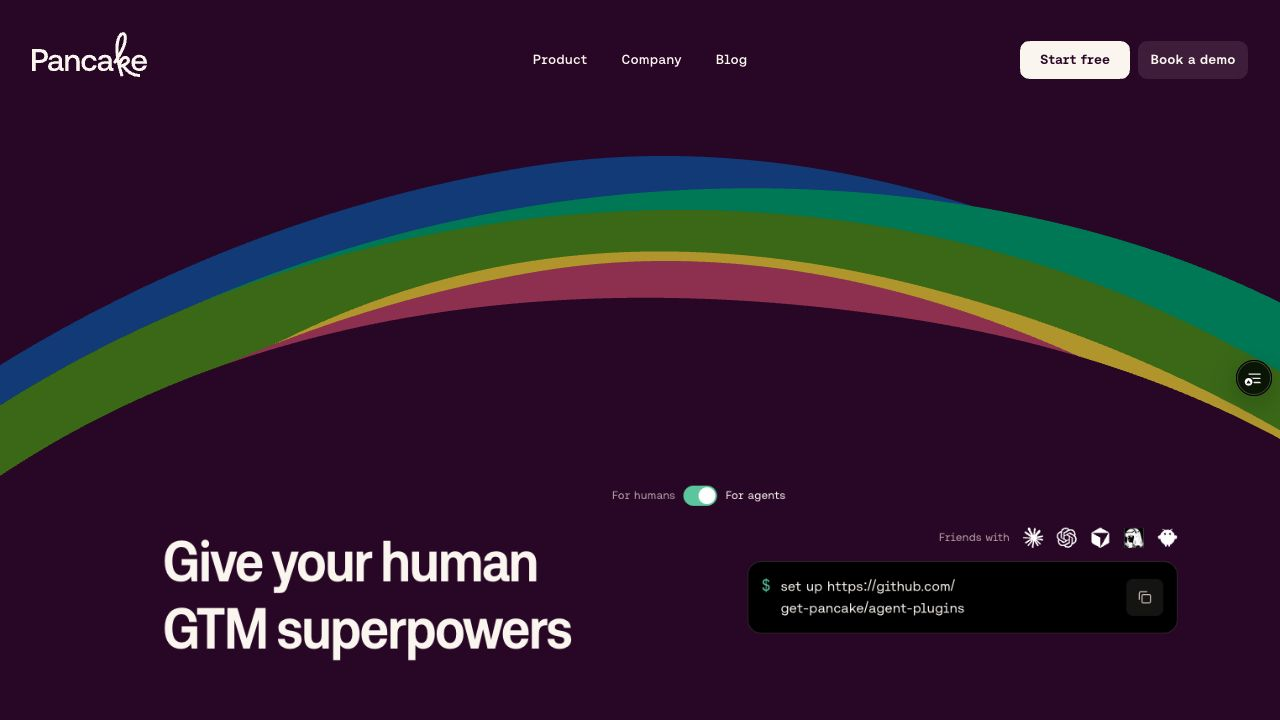
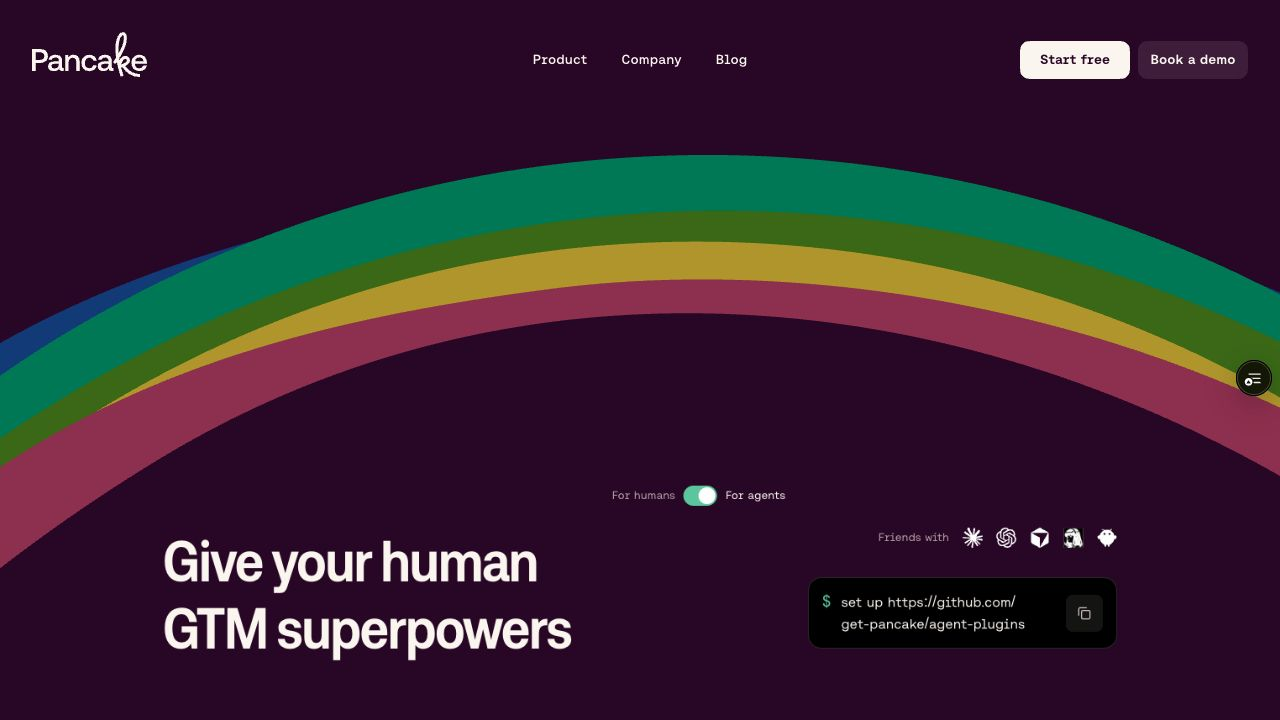
Match agent setup to original human hero column

Changed region(s): [[0.0, 0.2139, 1.0, 0.7944], [0.5625, 0.7333, 0.9375, 0.9167], [0.9375, 0.3667, 1.0, 0.4278]]

diff --git a/app/_styles/landing-v3/audience.css b/app/_styles/landing-v3/audience.css
@@ -34,13 +34,13 @@ html:has(.lp-audience-page)::view-transition-new(lp-audience-switch) { animation
 .lp-hero-title__copy { grid-area: 1 / 1; font: inherit; letter-spacing: inherit; }
 .lp-hero-title__copy[aria-hidden="true"] { visibility: hidden; }
 
-/* The agent's next step occupies the existing right-hand hero column.
-   The original human content keeps its own untouched layout. */
+/* The original human column remains the layout reference in both modes.
+   The agent block overlays its exact bounds, including on phones. */
 .lp-hero-col--agent { display: none; }
 .lp-hero-inner:not([data-title-ready="true"]) .lp-hero-col--agent { visibility: hidden; }
-[data-audience="agents"] .lp-hero-col--human { display: none; }
-[data-audience="agents"] .lp-hero-col--agent { display: block; top: var(--lp-hero-title-top); bottom: auto; }
-.lp-agent-start { width: calc(var(--lp-space-8) * 16); max-width: 100%; color: var(--lp-text); }
+[data-audience="agents"] .lp-hero-col--human { visibility: hidden; }
+[data-audience="agents"] .lp-hero-col--agent { display: block; position: absolute; top: var(--lp-hero-col-top); left: var(--lp-hero-col-left); right: auto; bottom: auto; width: var(--lp-hero-col-width); height: var(--lp-hero-col-height); transform: none; }
+.lp-agent-start { display: flex; flex-direction: column; justify-content: space-between; width: 100%; height: 100%; color: var(--lp-text); }
 .lp-agent-terminal { display: grid; grid-template-columns: auto minmax(0, 1fr) auto; gap: var(--lp-space-3); align-items: center; padding: var(--lp-space-4); border: var(--lp-line) solid color-mix(in srgb, var(--lp-page-bg) 16%, transparent); border-radius: var(--lp-r-m); background: var(--lp-terminal-bg); }
 .lp-agent-terminal__prompt { color: var(--lp-green-20); font: inherit; align-self: start; line-height: 1.6; }
 .lp-agent-terminal__code { display: block; font-family: var(--lp-font-fono); font-size: var(--lp-text-md); line-height: 1.6; color: var(--lp-page-bg); overflow-wrap: anywhere; text-wrap: balance; user-select: text; }
@@ -59,11 +59,6 @@ html:has(.lp-audience-page)::view-transition-new(lp-audience-switch) { animation
 .lp-agent-friends__hermes { object-fit: contain; filter: grayscale(1) invert(1); mix-blend-mode: screen; clip-path: inset(1%); }
 .lp-agent-start__error { padding-top: var(--lp-space-3); font-size: var(--lp-text-sm); line-height: 1.5; color: var(--lp-ink-60); }
 @keyframes lp-agent-copy-check { from { opacity: 0; transform: scale(.8); } to { opacity: 1; transform: scale(1); } }
-@media (max-width: 1024px) {
-  [data-audience="agents"] .lp-hero-inner { width: 100%; min-width: 0; }
-  .lp-hero-col--agent { width: 100%; min-width: 0; max-width: 100%; }
-  .lp-agent-start { width: 100%; max-width: calc(var(--lp-space-8) * 16); }
-}
 @media (max-width: 767px) {
   .lp-agent-terminal { gap: var(--lp-space-2); padding: var(--lp-space-3); }
   .lp-agent-friends, .lp-agent-friends ul { gap: var(--lp-space-3); }

diff --git a/components/sections/landing-v3/LpAudience.tsx b/components/sections/landing-v3/LpAudience.tsx
@@ -112,13 +112,18 @@ export function AudienceSelector() {
     const placement = selector?.parentElement;
     const inner = placement?.closest<HTMLElement>(".lp-hero-inner");
     const heading = inner?.querySelector<HTMLElement>(".lp-hero-title");
-    if (!selector || !placement || !inner || !heading) return;
+    const humanColumn = inner?.querySelector<HTMLElement>(".lp-hero-col--human");
+    if (!selector || !placement || !inner || !heading || !humanColumn) return;
     // Anchor to the original headline without changing its markup or flow.
     // Divide out the hero's existing short-window scale so both stay aligned.
     const position = () => {
       const box = inner.getBoundingClientRect();
       const title = heading.getBoundingClientRect();
+      const column = humanColumn.getBoundingClientRect();
       const scale = box.width / inner.offsetWidth || 1;
+      // offsetWidth rounds fractional mobile widths; retain that precision
+      // when mapping the original column's bounds into the overlay.
+      const columnScale = box.width / parseFloat(getComputedStyle(inner).width) || 1;
       const gutter = parseFloat(getComputedStyle(inner).getPropertyValue("--lp-space-8"));
       const gap = parseFloat(getComputedStyle(inner).getPropertyValue("--lp-space-4"));
       const half = selector.offsetWidth / 2;
@@ -126,13 +131,20 @@ export function AudienceSelector() {
       const center = Math.max(half + edge, Math.min((title.right - box.left) / scale - gap, inner.offsetWidth - half - edge));
       placement.style.setProperty("--lp-audience-center", `${center}px`);
       placement.style.setProperty("--lp-audience-top", `${(title.top - box.top) / scale}px`);
-      inner.style.setProperty("--lp-hero-title-top", `${(title.top - box.top) / scale}px`);
+      // Keep the agent CTA in the original description/buttons slot. The
+      // hidden human column still defines layout, so this also works for a
+      // direct agent URL and keeps the mobile headline fixed when toggling.
+      inner.style.setProperty("--lp-hero-col-top", `${(column.top - box.top) / columnScale}px`);
+      inner.style.setProperty("--lp-hero-col-left", `${(column.left - box.left) / columnScale}px`);
+      inner.style.setProperty("--lp-hero-col-width", `${column.width / columnScale}px`);
+      inner.style.setProperty("--lp-hero-col-height", `${column.height / columnScale}px`);
       inner.dataset.titleReady = "true";
       placement.dataset.ready = "true";
     };
     const observer = new ResizeObserver(position);
     observer.observe(inner);
     observer.observe(heading);
+    observer.observe(humanColumn);
     observer.observe(selector);
     position();
     return () => observer.disconnect();

diff --git a/docs/human-agent-design.md b/docs/human-agent-design.md
@@ -19,7 +19,7 @@ Scope reset by Tristan on September 4, 2026: keep the existing landing, add a to
 ## Validation
 
 - Codex Browser found identical original human text/link records and desktop layout measurements at 1280×720.
-- Both perspectives use identical H1 typography. The human hero text and desktop geometry remain identical to the prior preview; the agent setup block aligns with the H1 on desktop and flows below it on phones.
+- Both perspectives use identical H1 typography. The human hero text and desktop geometry remain identical to the prior preview; the agent setup block overlays the exact bounds of the original human description/buttons column, including on phones. The original column remains in layout but is hidden visually and from assistive technology in agent mode, keeping the headline fixed through the toggle.
 - Original human layout comparisons passed at 320×740, 393×852 and 768×1024; the selector stays inside the phone viewport.
 - Agent mode exposes only the hero and a blank section measuring exactly the viewport height.
 - Direct agent URL, keyboard switching, back/forward, reduced motion, inverse mobile menu and the existing booking dialog were checked. The live WebGL renderer and forced phone Canvas fallback both retained the correct palette through audience changes.
@@ -28,7 +28,7 @@ Scope reset by Tristan on September 4, 2026: keep the existing landing, add a to
 - The crossfade was measured at 240ms in both directions on desktop and phone. Heading geometry, scroll position and canvas instances remained unchanged. Three rapid toggles, Back/Forward and reduced-motion switching passed without errors.
 - Removing the capture wait reduced measured desktop click-to-fade onset from about 95–100ms to 20–30ms. Only the page snapshot fades; the named switch snapshot has no fade animation.
 
-Preview: https://pancake-rcp42v1m9-getpancake.vercel.app
+Preview: https://pancake-ee9m2jplv-getpancake.vercel.app
 
 The setup CTA borrows the single copyable instruction pattern from [Monid](https://monid.ai/), adapted to Pancake’s existing typography, colors and geometry. Other reference screenshots are historical research from the broader concept.
 

diff --git a/PROGRESS.md b/PROGRESS.md
@@ -23,12 +23,13 @@ Scope: original human landing plus a selector above the headline’s right edge.
 - [x] Set the agent H1 to “Give your human” / “GTM superpowers”, preserving the original font, size and headline box.
 - [x] Add the agent-only “Start here” terminal CTA with verified public plugin setup URL and working copy feedback.
 - [x] Set the terminal background to pure black; remove “Start here” at the founder’s request.
+- [x] Align the agent setup block to the original human description/buttons bounds, preserving their position and width on desktop and mobile.
 - [x] Replace the paste hint with “Friends with” and white Claude / Codex / Cursor / Hermes / OpenClaw logos above the terminal at its right edge, preserving accessible copy feedback.
 - [x] Compare desktop and phone human layouts against baseline `14ad159`.
 - [x] Independently review code and test booking and mobile menu behavior.
 - [x] Complete production build and updated Vercel preview verification.
 
-Preview: https://pancake-rcp42v1m9-getpancake.vercel.app
+Preview: https://pancake-ee9m2jplv-getpancake.vercel.app
 Draft PR: https://github.com/get-pancake/website/pull/275
 
 Implementation and validation: [human-agent-design.md](docs/human-agent-design.md).
